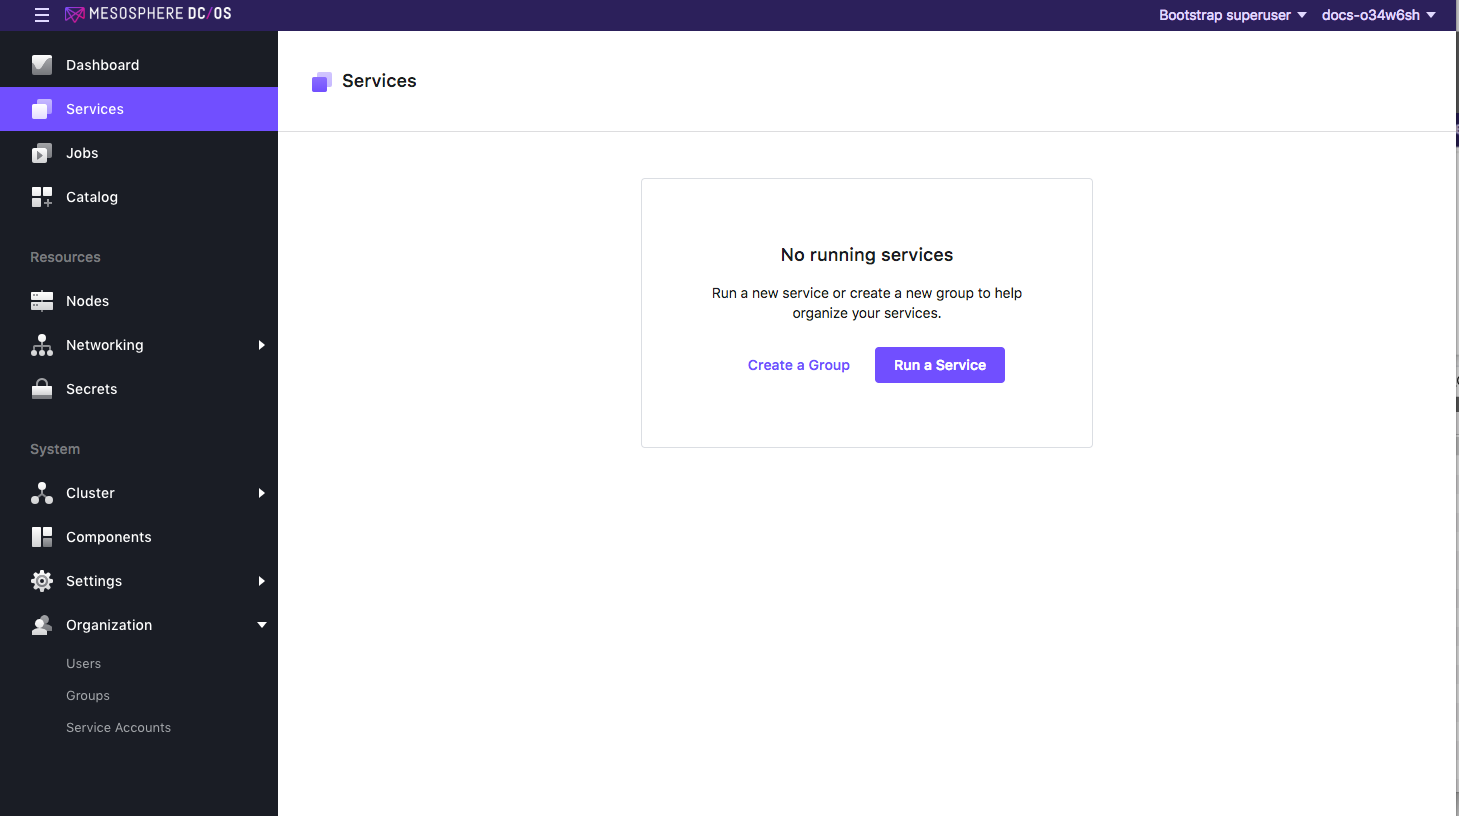
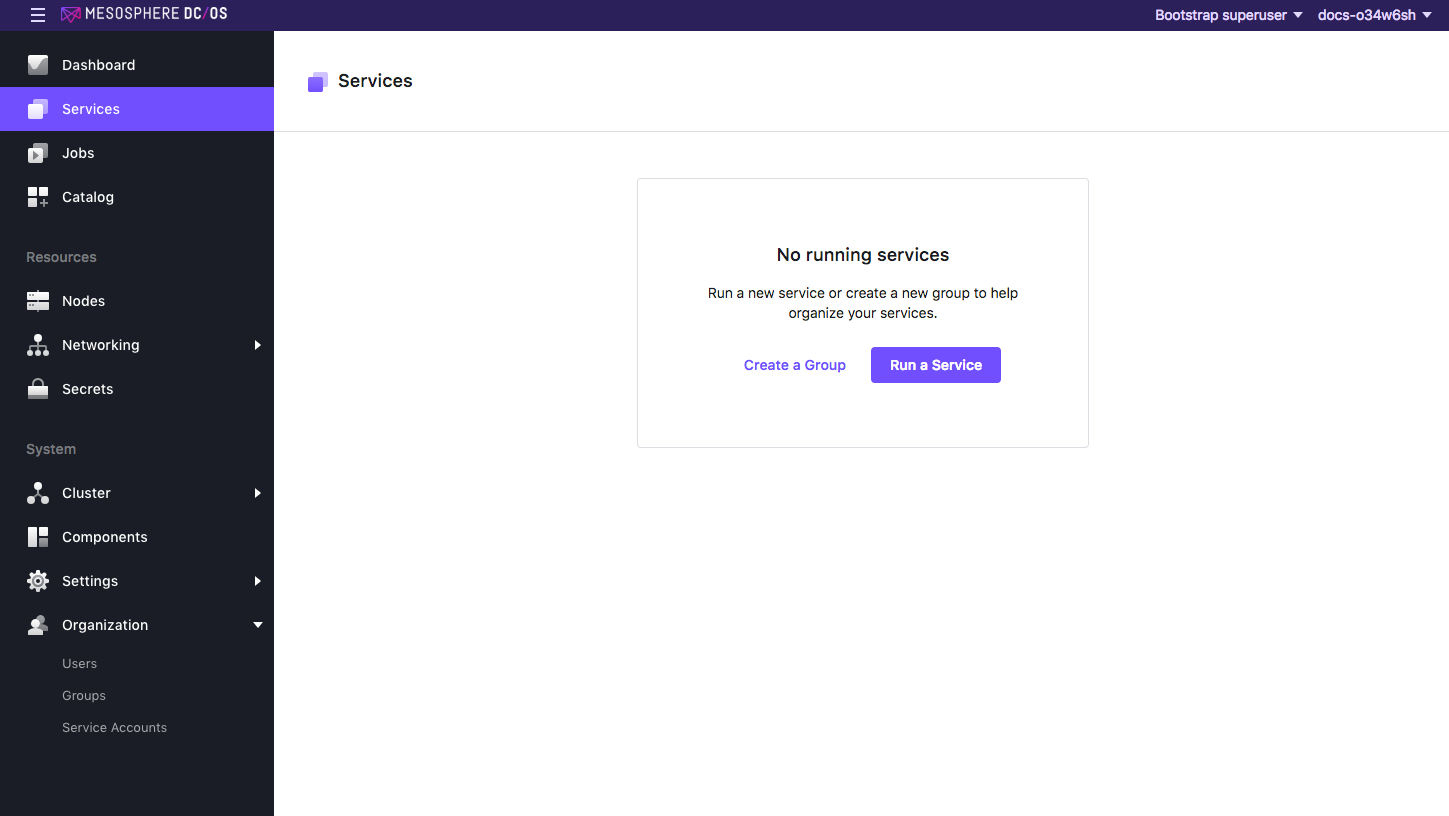
ck/DCOS-42540 Deploying Services graphics

diff --git a/pages/1.12/deploying-services/marathon-on-marathon/basic/index.md b/pages/1.12/deploying-services/marathon-on-marathon/basic/index.md
@@ -7,12 +7,12 @@ excerpt: Using a basic, non-native instance of Marathon
 enterprise: true
 ---
 
-This topic describes how to deploy a non-native instance of Marathon with isolated roles, reservations, and quotas. This  procedure does not support [secrets](/1.11/security/ent/secrets/) or fine-grained ACLs. If you require these features, you must use the custom non-native Marathon [procedure](/1.11/deploying-services/marathon-on-marathon/advanced/).
+This topic describes how to deploy a non-native instance of Marathon with isolated roles, reservations, and quotas. This  procedure does not support [secrets](/1.12/security/ent/secrets/) or fine-grained ACLs. If you require these features, you must use the custom non-native Marathon [procedure](/1.12/deploying-services/marathon-on-marathon/advanced/).
 
 **Prerequisites:**
 
--  DC/OS and DC/OS CLI [installed](/1.11/installing/oss/).
--  [DC/OS Enterprise CLI 0.4.14 or later](/1.11/cli/enterprise-cli/#ent-cli-install).
+-  DC/OS and DC/OS CLI [installed](/1.12/installing/oss/).
+-  [DC/OS Enterprise CLI 0.4.14 or later](/1.12/cli/enterprise-cli/#ent-cli-install).
 -  You must be logged in as a superuser.
 -  SSH access to the cluster.
 
@@ -27,7 +27,7 @@ In this step, Mesos resources are reserved. Choose the procedure for either [sta
 </tr> 
 </table>
 
-1.  [SSH](/1.11/administering-clusters/sshcluster/) to your private agent node.
+1.  [SSH](/1.12/administering-clusters/sshcluster/) to your private agent node.
 
    ```bash
    dcos node ssh --master-proxy --mesos-id=<agent-id>
@@ -152,7 +152,7 @@ In this step, a non-native Marathon instance is installed on DC/OS with the Meso
     ```
 
 # Step 3 - Create a Marathon Service Account
-In this step, a Marathon Service Account is created. Depending on your [security mode](/1.11/security/ent/#security-modes), a Marathon Service Account is either optional or required.
+In this step, a Marathon Service Account is created. Depending on your [security mode](/1.12/security/ent/#security-modes), a Marathon Service Account is either optional or required.
 
 | Security Mode | Marathon Service Account |
 |---------------|----------------------|
@@ -174,7 +174,7 @@ In this step, a Marathon Service Account is created. Depending on your [security
 # Step 4 - Assign Permissions (Strict mode only)
 In this step, permissions are assigned to the Marathon-on-Marathon instance. Permissions are required in strict mode and are ignored in permissive security mode.
 
-All CLI commands can also be executed via the [IAM API](/1.11/security/ent/iam-api/).
+All CLI commands can also be executed via the [IAM API](/1.12/security/ent/iam-api/).
 
 | Security Mode | Permissions |
 |---------------|----------------------|
@@ -201,7 +201,7 @@ In this step, a user is granted access to the non-native Marathon instance.
 
 1. Log in to the DC/OS web interface as a user with the `superuser` permission.
 
-   ![Login](/1.11/img/gui-installer-login-ee.gif)
+   ![Login](/1.12/img/LOGIN-EE-Modal_View-1_12.png)
 
    Figure 1. DC/OS web interface login screen.
 
@@ -209,7 +209,7 @@ In this step, a user is granted access to the non-native Marathon instance.
 
 1.  Select the name of the user or group to grant the permission to.
 
-    ![Add permission cory](/1.11/img/services-tab-user.png)
+    ![Add permission cory](/1.12/img/GUI-Organization-Users-List_View-1_12.png)
 
     Figure 2. Select user or group permission
 
@@ -217,11 +217,11 @@ In this step, a user is granted access to the non-native Marathon instance.
 
 1.  Click **INSERT PERMISSION STRING** to toggle the dialog.
 
-    ![Add permission](/1.11/img/services-tab-user3.png)
+    ![Add permission](/1.12/img/GUI-Organization-Users-User_Alice_Add_Gen_Perms-1_12.png)
 
     Figure 3. Add permissions.
 
-1.  Copy and paste the permission in the **Permissions Strings** field. Choose the permission strings based on your [security mode](/1.11/security/ent/#security-modes).
+1.  Copy and paste the permission in the **Permissions Strings** field. Choose the permission strings based on your [security mode](/1.12/security/ent/#security-modes).
 
     ### Permissive
 
@@ -290,12 +290,12 @@ In this step, you log in as a authorized user to the non-native Marathon DC/OS s
 
 1.  Enter your username and password and click **LOG IN**.
 
-    ![Log in DC/OS](/1.11/img/gui-installer-login-ee.gif)
+    ![Log in DC/OS](/1.12/img/LOGIN-EE-Modal_View-1_12.png)
 
     Figure 4. DC/OS log in screen
 
     You are done!
 
-    ![Marathon on Marathon](/1.11/img/mom-marathon-gui.png)
+    ![Marathon on Marathon](/1.12/img/mom-marathon-gui.png)
 
     Figure 5. Success screen.

diff --git a/pages/1.12/deploying-services/service-groups/index.md b/pages/1.12/deploying-services/service-groups/index.md
@@ -25,7 +25,7 @@ The [Marathon permissions](/1.11/security/ent/perms-reference/#marathon-metronom
 
 1. Log into the DC/OS web interface as a user with the `superuser` permission.
 
-   ![Login](/1.11/img/gui-installer-login-ee.gif)
+   ![Login](/1.12/img/LOGIN-EE-Modal_View-1_12.png)
 
    Figure 1. DC/OS web interface login screen
 
@@ -33,7 +33,7 @@ The [Marathon permissions](/1.11/security/ent/perms-reference/#marathon-metronom
 
 1.  Select the name of the user or group to grant the permission to.
 
-    ![Add permission cory](/1.11/img/services-tab-user.png)
+    ![Add permission cory](/1.12/img/GUI-Organization-Users-Users_List_View_w_Users-1_12.png)
 
     Figure 2. Select user to grant permissions
 
@@ -43,7 +43,7 @@ The [Marathon permissions](/1.11/security/ent/perms-reference/#marathon-metronom
 
 1.  Copy and paste the permission in the **Permissions Strings** field. Choose the permission strings based on your [security mode](/1.11/security/ent/#security-modes).
 
-    ![Add permission](/1.11/img/services-tab-user3.png)
+    ![Add permission](/1.12/img/GUI-Organization-Users-User_Alice_Add_Gen_Perms-1_12.png)
 
     Figure 3. Copy and paste permissions string.
 
@@ -149,7 +149,7 @@ The [Marathon permissions](/1.11/security/ent/perms-reference/#marathon-metronom
 
 1. Log into the DC/OS web interface as a user with the `superuser` permission.
 
-   ![Login](/1.11/img/gui-installer-login-ee.gif)
+   ![Login](/1.12/img/LOGIN-EE-Modal_View-1_12.png)
 
    Figure 3. DC/OS web interface login screen
 
@@ -157,7 +157,7 @@ The [Marathon permissions](/1.11/security/ent/perms-reference/#marathon-metronom
 
 1.  Select the name of the user or group to grant the permission to.
 
-    ![Add permission cory](/1.11/img/services-tab-user.png)
+    ![Add permission cory](/1.12/img/GUI-Organization-Users-Users_List_View_w_Users-1_12.png)
 
     Figure 4. Select user to grant permissions
 
@@ -165,7 +165,7 @@ The [Marathon permissions](/1.11/security/ent/perms-reference/#marathon-metronom
 
 1.  Click **INSERT PERMISSION STRING** to toggle the dialog.
 
-    ![Add permission](/1.11/img/services-tab-user3.png)
+    ![Add permission](/1.12/img/GUI-Organization-Users-User_Alice_Add_Gen_Perms-1_12.png)
 
     Figure 5. Add permission
 
@@ -279,7 +279,7 @@ The [Marathon permissions](/1.11/security/ent/perms-reference/#marathon-metronom
 
 1. Log into the DC/OS web interface as a user with the `superuser` permission.
 
-   ![Login](/1.11/img/gui-installer-login-ee.gif)
+   ![Login](/1.12/img/LOGIN-EE-Modal_View-1_12.png)
 
    Figure 5. DC/OS web interface login screen
 
@@ -287,7 +287,7 @@ The [Marathon permissions](/1.11/security/ent/perms-reference/#marathon-metronom
 
 1.  Select the name of the user or group to grant the permission to.
 
-    ![Add permission cory](/1.11/img/services-tab-user.png)
+    ![Add permission cory](/1.12/img/GUI-Organization-Users-Users_List_View_w_Users-1_12.png)
 
     Figure 6. Select user to grant permissions
 
@@ -295,7 +295,7 @@ The [Marathon permissions](/1.11/security/ent/perms-reference/#marathon-metronom
 
 1.  Click **INSERT PERMISSION STRING** to toggle the dialog.
 
-    ![Add permission](/1.11/img/services-tab-user3.png)
+    ![Add permission](/1.12/img/GUI-Organization-Users-User_Alice_Add_Gen_Perms-1_12.png)
 
     Figure 7. Add permissions
 

diff --git a/pages/1.12/deploying-services/marathon-on-marathon/index.md b/pages/1.12/deploying-services/marathon-on-marathon/index.md
@@ -15,7 +15,7 @@ This topic describes how to deploy non-native instances of Marathon to isolate M
 -  **Non-native Marathon** A Marathon instance that you can install as a DC/OS service. Non-native Marathon instances run on private agent nodes. You may need additional private agent nodes to accommodate the increased resource demands.  
 
 # Isolating Resources
-DC/OS Enterprise [security features](/1.11/security/ent/) provide robust fine-grained access control. However, there are situations when you might want a partitioned environment, for example:
+DC/OS Enterprise [security features](/1.12/security/ent/) provide robust fine-grained access control. However, there are situations when you might want a partitioned environment, for example:
 
 -  Testing DC/OS upgrades or API changes.
 -  Isolating developer groups from each other securely, such that developers in one group cannot negatively impact workloads running in another group. By default, each DC/OS service uses the same [Mesos role](http://mesos.apache.org/documentation/latest/roles/) that the native Marathon registered with for quotas and reservations. This means that Marathon users can run tasks under any Linux user that Marathon can run tasks under.

diff --git a/pages/1.12/deploying-services/install/index.md b/pages/1.12/deploying-services/install/index.md
@@ -33,7 +33,7 @@ From the DC/OS web interface you can install services from the **Services** or *
 
 1.  Navigate to the [**Catalog**](/1.11/gui/catalog/) tab in the DC/OS web interface.
 
-    ![universe](/1.11/img/ui-dashboard-catalog.png)
+    ![universe](/1.12/img/GUI-Catalog-Main_View-1_12.png)
 
     Figure 1. Universe catalog
 
@@ -47,7 +47,7 @@ From the DC/OS web interface you can install services from the **Services** or *
 1.  Navigate to the [**Services**](/1.11/gui/services/) tab in the DC/OS web interface.
 1.  Click **RUN A SERVICE** and specify your Marathon app definition.
 
-    ![service tab](/1.11/img/run-a-service.png)
+    ![service tab](/1.12/img/GUI-Services-No_Services_Running-1_12.png)
 
     Figure 2. Services screen
 
@@ -63,7 +63,7 @@ dcos package list
 
 Go to the **Services** tab and confirm that the service is running. For more information, see the web interface [documentation](/1.11/gui/services/).
 
-![Services](/1.11/img/tweeter-services6.png)
+![Services](/1.12/img/GUI-Services-Running_Services_View-1_12.png)
 
 Figure 3. Service is running
 

diff --git a/pages/1.12/deploying-services/scale-service/index.md b/pages/1.12/deploying-services/scale-service/index.md
@@ -12,11 +12,11 @@ This tutorial shows how to scale a service using the web interface and the CLI.
 
 # Scale Your Service from the Web Interface
 
-1. From the **Services** tab, put your cursor over the name of the service you want to scale to reveal a gear symbol.   
-1. Click the gear symbol and choose **Scale**.
-   ![gear symbol](/1.11/img/gear-services.png)
+1. From the **Services** tab, click the menu dots to the right side to access **More Actions**.  
+1. Click the menu symbol and choose **Scale By**.
+   ![menu symbol](/1.12/img/GUI-Services-List_View_Item_More_Actions_Menu-1_12.png)
 
-   Figure 1. Drop-down gear menu and options
+   Figure 1. More Actions menu
 
 1. Enter the total number of instances you would like, then click **SCALE SERVICE**.
    ![scale](/1.11/img/scale-services.png)

diff --git a/pages/1.12/tutorials/create-service/index.md b/pages/1.12/tutorials/create-service/index.md
@@ -42,7 +42,7 @@ Create and run a simple service from the DC/OS web interface:
 
 1. Click the name of your service in the **Services** view to see it running and monitor health.
 
-    ![Running service in the DC/OS UI](/1.12/img/svc-running-ui.png)
+    ![Running service in the DC/OS UI](/1.12/img/GUI-Services-Running_Services_View-1_12.png)
 
     Figure 2. Viewing a running service in the web interface
 

diff --git a/pages/1.12/deploying-services/marathon-on-marathon/advanced/index.md b/pages/1.12/deploying-services/marathon-on-marathon/advanced/index.md
@@ -440,7 +440,7 @@ In this step, you log in as a authorized user to the non-native Marathon DC/OS s
 
 1.  Enter your username and password and click **LOG IN**.
 
-    ![Log in DC/OS](/1.12/img/gui-installer-login-ee.gif)
+    ![Log in DC/OS](/1.12/img/LOGIN-EE-Modal_View-1_12.png)
 
     Figure 4. You are done!
 
